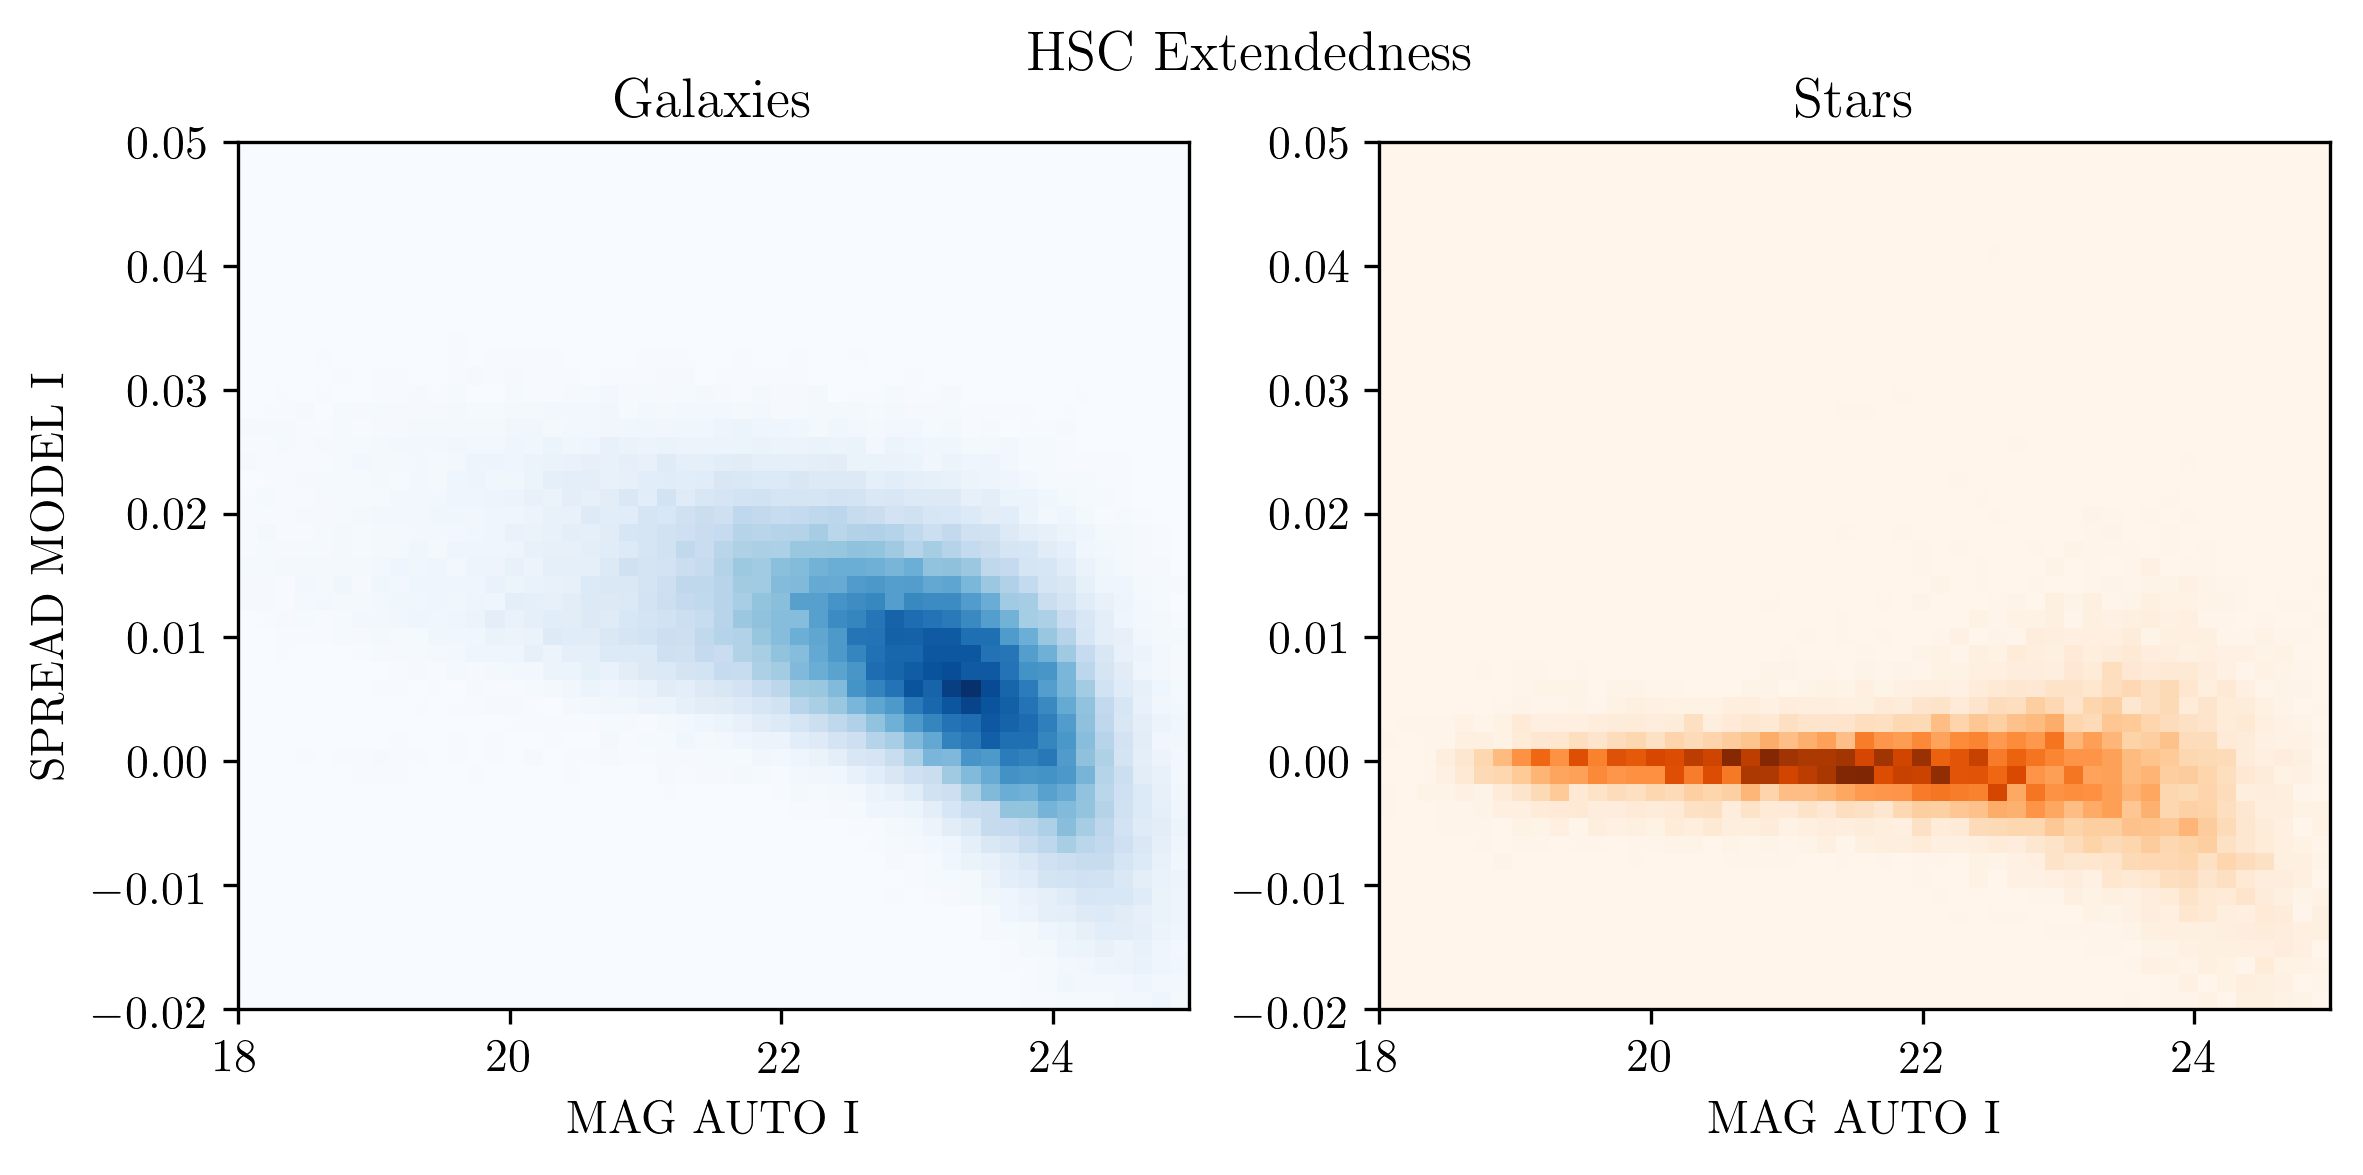
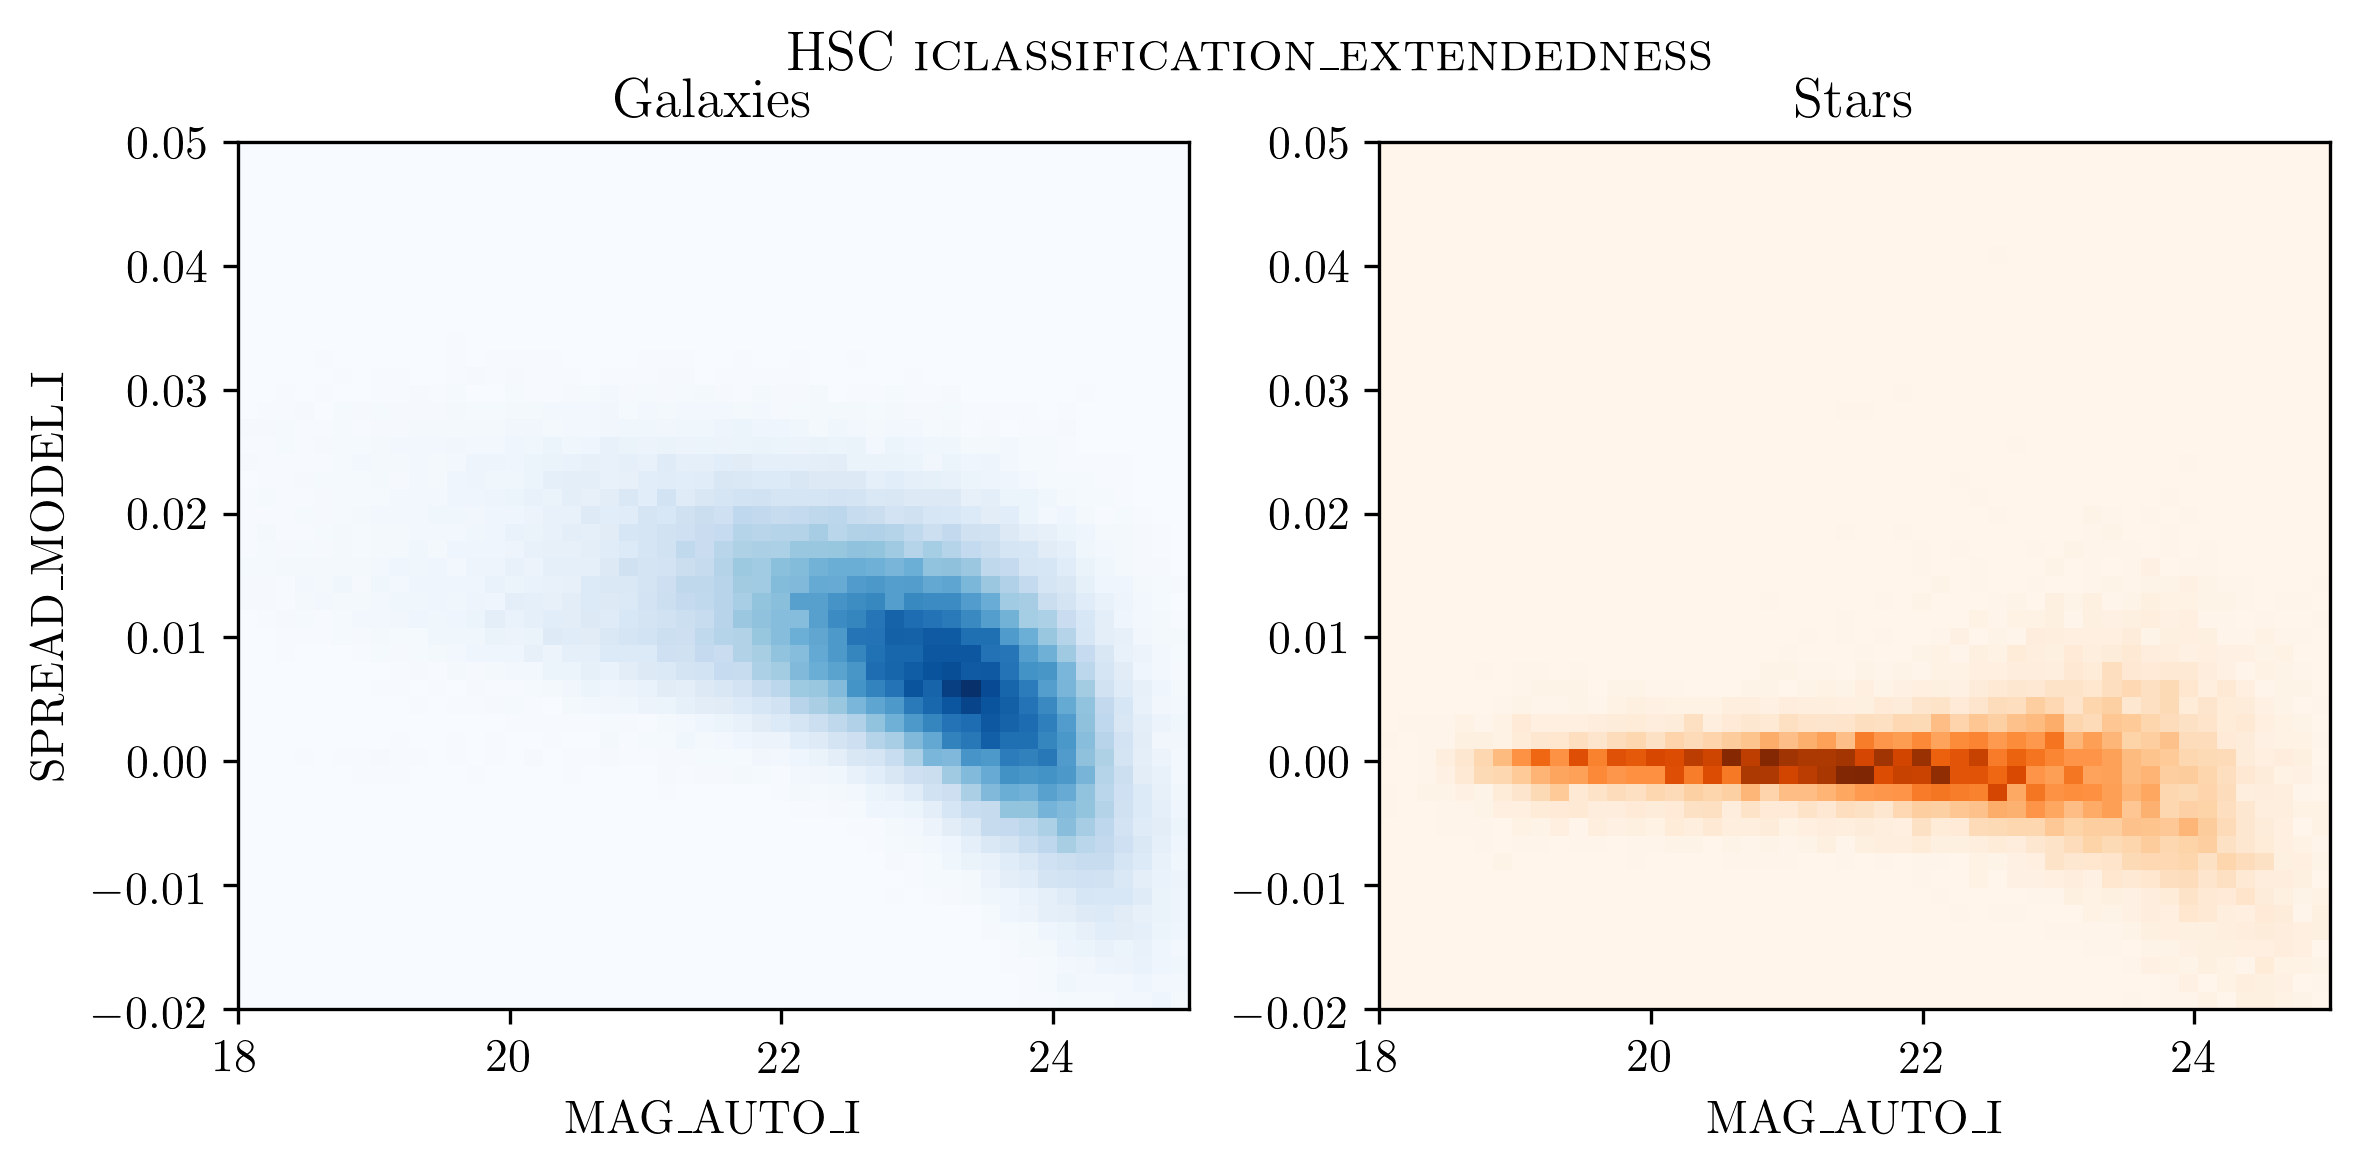
better plots, m calculation

diff --git a/mcal-contamination.py b/mcal-contamination.py
@@ -18,13 +18,20 @@ def make_shape_cuts(cat, snr=[10,100], flags=0, size_ratio=0.5):
 
   return shape_cut
 
-hsc_fname = 'hsc-sxds.fits'
-gold_fname = 'sxds.y3_gold_2_2.fits'
-mcal_fname = 'sxds_metacal_unsheared_Y3_mastercat_v2_6_20_18_subsampled.fits'
+extended_class_coadd_list = [0, 1, 2, 3]
+cmap_list = ['Blues', 'Oranges', 'Greens', 'Reds']
+extended_class_coadd_names = {'0': 'High confidence stars',
+                              '1': 'Candidate stars',
+                              '2': 'Mostly galaxies',
+                              '3': 'High confidence galaxies'}
 
-hsc_gold_match_fname = 'sxds.hsc_gold_matches.fits'
-mcal_gold_match_fname = 'sxds.mcal_gold_matches.fits'
-mcal_hsc_gold_match_fname = 'sxds.hsc_mcal_gold_matches.fits'
+hsc_fname = 'data-subsampled/sxds.hsc.fits'
+gold_fname = 'data-subsampled/sxds.y3_gold_2_2.fits'
+mcal_fname = 'data-subsampled/sxds.metacal_unsheared_Y3_mastercat_v2_6_20_18_subsampled.fits'
+
+hsc_gold_match_fname = 'data-subsampled/sxds.hsc_gold_matches.fits'
+mcal_gold_match_fname = 'data-subsampled/sxds.mcal_gold_matches.fits'
+mcal_hsc_gold_match_fname = 'data-subsampled/sxds.hsc_mcal_gold_matches.fits'
 
 hsc = Table.read(hsc_fname)
 gold = Table.read(gold_fname)
@@ -60,10 +67,11 @@ star_spread_cut = np.less(np.abs(mcal_gold_matches['SPREAD_MODEL_I'] + (5./3.)*m
 gal_spread_cut = ~star_spread_cut
 
 # hsc star cuts to mcal-hsc-gold
-# need to recalculate shape cuts!
 star_hsc_cut = mcal_hsc_gold_matches['iclassification_extendedness']==0
 gal_hsc_cut = ~star_hsc_cut
-R11_hsc_cut = np.less(mcal_hsc_gold_matches['R11'], 3.)*np.greater(mcal_hsc_gold_matches['R11'], -3)
+
+R11_gold_cut = np.less(mcal_gold_matches['R11'], 3.)*np.greater(mcal_gold_matches['R11'], -3)*(mcal_gold_matches['flags']==0)
+R11_hsc_cut = np.less(mcal_hsc_gold_matches['R11'], 3.)*np.greater(mcal_hsc_gold_matches['R11'], -3)*(mcal_hsc_gold_matches['flags']==0)
 
 # need to think about completeness across this
 N_mcal = len(mcal)
@@ -77,61 +85,88 @@ N_mcal_hsc_gold = len(mcal_hsc_gold_matches)
 N_shape = np.sum(shape_mcal_gold_cut)
 N_shape_hsc = np.sum(shape_mcal_hsc_gold_cut)
 N_hsc_shape_stars = np.sum(star_hsc_cut*shape_mcal_hsc_gold_cut)
+N_hsc_shape_gal = np.sum(gal_hsc_cut*shape_mcal_hsc_gold_cut)
 N_spread_shape_stars = np.sum(star_spread_cut*shape_mcal_gold_cut)
 
-print(N_mcal, N_gold, N_hsc)
-print(N_mcal_gold, N_hsc_gold, N_mcal_hsc_gold)
+N_high_shape_stars = np.sum(shape_mcal_gold_cut*(mcal_gold_matches['EXTENDED_CLASS_COADD']==0))
+N_cand_shape_stars = np.sum(shape_mcal_gold_cut*(mcal_gold_matches['EXTENDED_CLASS_COADD']==1))
 
-print(N_shape, N_hsc_shape_stars, N_spread_shape_stars)
-print(N_shape, N_hsc_shape_stars/N_shape, N_spread_shape_stars/N_shape)
+#print(N_mcal, N_gold, N_hsc)
+#print(N_mcal_gold, N_hsc_gold, N_mcal_hsc_gold)
 
-print('HSC contamination: {0:.3f}\\%'.format(100*N_hsc_shape_stars/N_shape))
-print('Y1Spreadmodel contamination: {0:.3f}\\%'.format(100*N_spread_shape_stars/N_shape))
+#print(N_shape, N_hsc_shape_stars, N_spread_shape_stars)
+#print(N_shape, N_hsc_shape_stars/N_shape, N_spread_shape_stars/N_shape)
+
+print('HSC contamination: {0:.2f}%'.format(100*N_hsc_shape_stars/N_shape))
+print('Y1Spreadmodel contamination: {0:.2f}%'.format(100*N_spread_shape_stars/N_shape))
+
+print('HSC Star <R>: {0}'.format(np.mean(mcal_hsc_gold_matches['R11'][R11_hsc_cut*shape_mcal_hsc_gold_cut*star_hsc_cut])))
+print('HSC Star std(R): {0}'.format(np.std(mcal_hsc_gold_matches['R11'][R11_hsc_cut*shape_mcal_hsc_gold_cut*star_hsc_cut])))
+
+print('HSC Galaxy <R>: {0}'.format(np.mean(mcal_hsc_gold_matches['R11'][R11_hsc_cut*shape_mcal_hsc_gold_cut*gal_hsc_cut])))
+print('HSC Galaxy std(R): {0}'.format(np.std(mcal_hsc_gold_matches['R11'][R11_hsc_cut*shape_mcal_hsc_gold_cut*gal_hsc_cut])))
+
+m_hsc = (N_hsc_shape_stars / N_hsc_shape_gal)*(np.mean(mcal_hsc_gold_matches['R11'][R11_hsc_cut*shape_mcal_hsc_gold_cut*star_hsc_cut]) / np.mean(mcal_hsc_gold_matches['R11'][R11_hsc_cut*shape_mcal_hsc_gold_cut*gal_hsc_cut]))
+
+print('m from HSC stars = {0:.5f}'.format(m_hsc))
 
 plt.figure(1, figsize=(2*4.5, 3.75))
 plt.subplot(121)
 plt.title('Galaxies')
-plt.hist2d(mcal_gold_matches['MAG_AUTO_I'][gal_spread_cut], mcal_gold_matches['SPREAD_MODEL_I'][gal_spread_cut], range=[[18, 25],[-0.02, 0.05]], bins=50, cmap='Blues')
-plt.xlabel('MAG AUTO I')
-plt.ylabel('SPREAD MODEL I')
-plt.subplot(122)
-plt.title('Stars')
-plt.hist2d(mcal_gold_matches['MAG_AUTO_I'][star_spread_cut], mcal_gold_matches['SPREAD_MODEL_I'][star_spread_cut], range=[[18, 25],[-0.02, 0.05]], bins=50, cmap='Oranges')
-plt.xlabel('MAG AUTO I')
-#plt.ylabel('SPREAD MODEL I')
-plt.suptitle('Y1 Spread Model')
-plt.savefig('plots/stargal-y1spreadmodel.png', dpi=300, bbox_inches='tight')
-
-plt.figure(2, figsize=(2*4.5, 3.75))
-plt.subplot(121)
-plt.title('Galaxies')
 plt.hist2d(mcal_hsc_gold_matches['MAG_AUTO_I'][gal_hsc_cut], mcal_hsc_gold_matches['SPREAD_MODEL_I'][gal_hsc_cut], range=[[18, 25],[-0.02, 0.05]], bins=50, cmap='Blues')
-plt.xlabel('MAG AUTO I')
-plt.ylabel('SPREAD MODEL I')
+plt.xlabel('MAG\_AUTO\_I')
+plt.ylabel('SPREAD\_MODEL\_I')
 plt.subplot(122)
 plt.title('Stars')
 plt.hist2d(mcal_hsc_gold_matches['MAG_AUTO_I'][star_hsc_cut], mcal_hsc_gold_matches['SPREAD_MODEL_I'][star_hsc_cut], range=[[18, 25],[-0.02, 0.05]], bins=50, cmap='Oranges')
-plt.xlabel('MAG AUTO I')
+plt.xlabel('MAG\_AUTO\_I')
 #plt.ylabel('SPREAD MODEL I')
-plt.suptitle('HSC Extendedness')
+plt.suptitle('HSC \\textsc{iclassification\_extendedness}')
 plt.savefig('plots/stargal-hsc.png', dpi=300, bbox_inches='tight')
 
-R11_gold_cut = np.less(mcal_gold_matches['R11'], 3.)*np.greater(mcal_gold_matches['R11'], -3)*(mcal_gold_matches['flags']==0)
-R11_hsc_cut = np.less(mcal_hsc_gold_matches['R11'], 3.)*np.greater(mcal_hsc_gold_matches['R11'], -3)*(mcal_hsc_gold_matches['flags']==0)
+plt.figure(2, figsize=(4*4.5, 3.75))
+for iext, extended_class_coadd in enumerate(extended_class_coadd_list):
+  plt.subplot(1,len(extended_class_coadd_list),iext+1)
+  plt.title(extended_class_coadd_names[str(extended_class_coadd)])
+  plt.hist2d(mcal_gold_matches['MAG_AUTO_I'][mcal_gold_matches['EXTENDED_CLASS_COADD']==extended_class_coadd], mcal_gold_matches['SPREAD_MODEL_I'][mcal_gold_matches['EXTENDED_CLASS_COADD']==extended_class_coadd], range=[[18, 25],[-0.02, 0.05]], bins=50, cmap=cmap_list[iext])
+  plt.xlabel('MAG\_AUTO\_I')
+  if iext==0:
+    plt.ylabel('SPREAD\_MODEL\_I')
+plt.suptitle('Gold \\textsc{EXTENDED\_CLASS\_COADD}')
+plt.savefig('plots/stargal-y3extendedness.png', dpi=300, bbox_inches='tight')
 
-plt.figure(7, figsize=(2*4.5, 3.75))
-plt.subplot(121)
-plt.hist(mcal_gold_matches['R11'][R11_gold_cut*shape_mcal_gold_cut], bins=50, histtype='step', normed=True, label='MCAL Shape Objects')
-plt.hist(mcal_hsc_gold_matches['R11'][R11_hsc_cut*shape_mcal_hsc_gold_cut*star_hsc_cut], bins=50, histtype='step', normed=True, label='MCAL Shape, HSC Stars')
-plt.hist(mcal_hsc_gold_matches['R11'][R11_hsc_cut*shape_mcal_hsc_gold_cut*gal_hsc_cut], bins=50, histtype='step', normed=True, label='MCAL Shape, HSC Galaxies')
+plt.figure(3, figsize=(3*4.5, 3.75))
+for iext, extended_class_coadd in enumerate(extended_class_coadd_list):
+  class_name = extended_class_coadd_names[str(extended_class_coadd)]
+  if class_name.endswith('stars'):
+    plt.subplot(131)
+  else:
+    plt.subplot(132)
+  ext_class_cut = mcal_gold_matches['EXTENDED_CLASS_COADD']==extended_class_coadd
+  plt.hist(mcal_gold_matches['R11'][R11_gold_cut*ext_class_cut],  bins=50, histtype='step', normed=True, label=class_name)
+  plt.xlabel('Shear Response $R_{11}$')
+
+plt.subplot(131)
+plt.title('Stars')
+plt.hist(mcal_hsc_gold_matches['R11'][R11_hsc_cut*star_hsc_cut], bins=50, histtype='step', normed=True, label='HSC Stars')
+plt.legend(fontsize='xx-small', ncol=1, loc='upper left')
+plt.ylabel('Normalised counts')
 plt.xlim([-3,3])
-plt.xlabel('R11')
-plt.legend(loc='upper left', fontsize='x-small')
-plt.subplot(122)
-plt.hist(mcal_gold_matches['R11'][R11_gold_cut*shape_mcal_gold_cut], bins=50, histtype='step', normed=True, label='MCAL Shape Objects')
-plt.hist(mcal_hsc_gold_matches['R11'][R11_hsc_cut*star_hsc_cut], bins=50, histtype='step', normed=True, label='All HSC Stars')
-plt.hist(mcal_hsc_gold_matches['R11'][R11_hsc_cut*gal_hsc_cut], bins=50, histtype='step', normed=True, label='All HSC Galaxies')
+plt.subplot(132)
+plt.title('Galaxies')
+plt.hist(mcal_hsc_gold_matches['R11'][R11_hsc_cut*gal_hsc_cut], bins=50, histtype='step', normed=True, label='HSC Galaxies')
+plt.hist(mcal_gold_matches['R11'][R11_gold_cut*shape_mcal_gold_cut], bins=50, histtype='step', normed=True, label='Mcal Shape objects')
+plt.xlabel('Shear Response $R_{11}$')
+plt.legend(fontsize='xx-small', ncol=1, loc='upper left')
 plt.xlim([-3,3])
-plt.xlabel('R11')
-plt.legend(loc='upper left', fontsize='x-small')
-plt.savefig('plots/R11-shapecut-stargal.png', dpi=300, bbox_inches='tight')
+#plt.yscale('log')
+plt.subplot(133)
+plt.title('Stars in Shape Catalogue')
+plt.hist(mcal_gold_matches['R11'][R11_gold_cut*shape_mcal_gold_cut*(mcal_gold_matches['EXTENDED_CLASS_COADD']==0)], bins=30, histtype='step', normed=True, label='{0:.2f}\% High confidence stars'.format(100*N_high_shape_stars/N_shape))
+plt.hist(mcal_hsc_gold_matches['R11'][R11_hsc_cut*shape_mcal_hsc_gold_cut*star_hsc_cut], bins=30, histtype='step', normed=True, label='{0:.2f}\% HSC Stars'.format(100*N_hsc_shape_stars/N_shape))
+#plt.hist(mcal_gold_matches['R11'][R11_gold_cut*shape_mcal_gold_cut*mcal_gold_matches['EXTENDED_CLASS_COADD']==0], bins=30, histtype='step', normed=True, label='high confidence stars')
+plt.hist(mcal_gold_matches['R11'][R11_gold_cut*shape_mcal_gold_cut*(mcal_gold_matches['EXTENDED_CLASS_COADD']==1)], bins=30, histtype='step', normed=True, label='{0:.2f}\% Candidate stars'.format(100*N_cand_shape_stars/N_shape))
+plt.xlabel('Shear Response $R_{11}$')
+plt.legend(fontsize='xx-small', ncol=1, loc='upper left')
+plt.xlim([-3,3])
+plt.savefig('plots/R11-objecttype.png', dpi=300, bbox_inches='tight')
